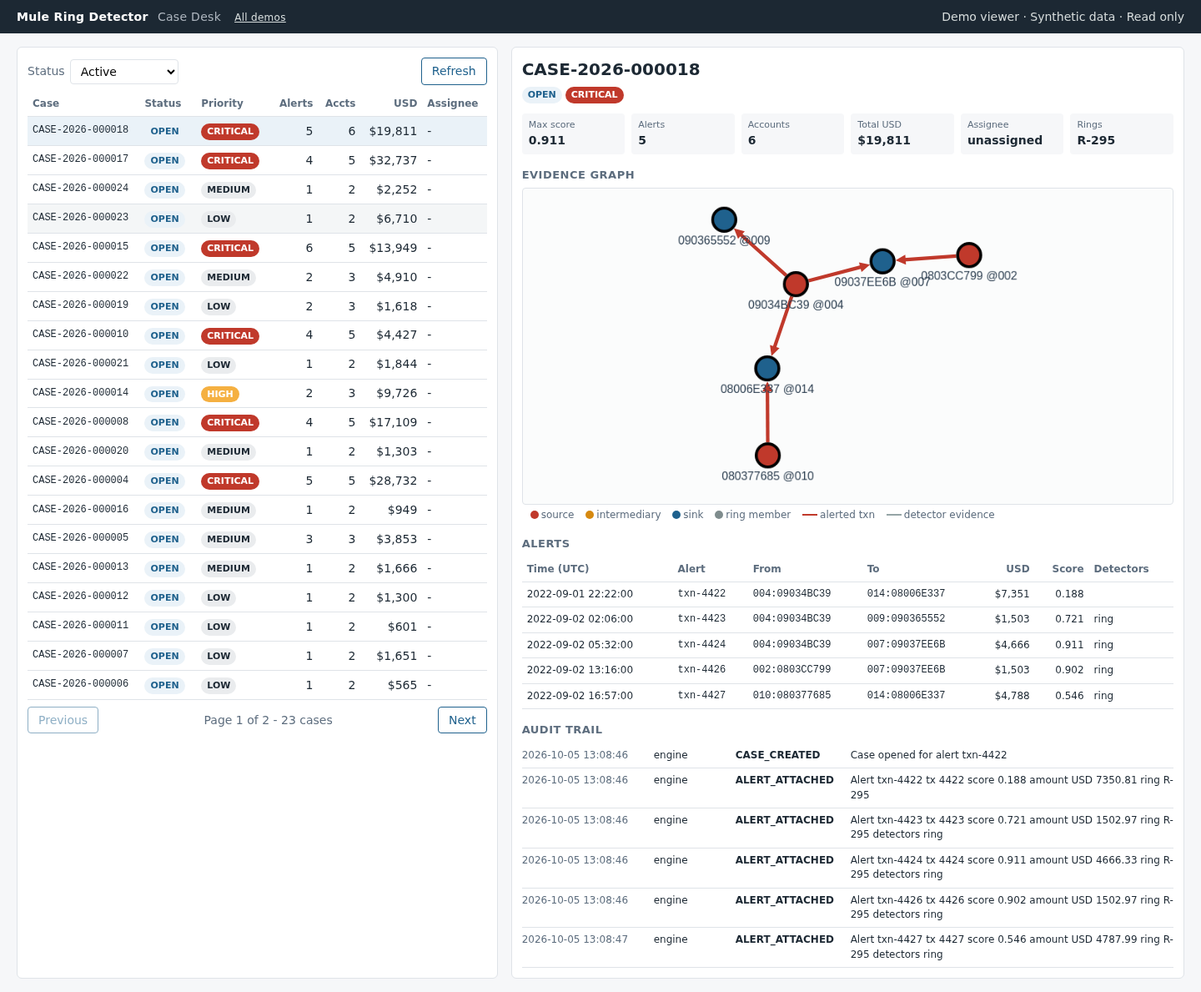
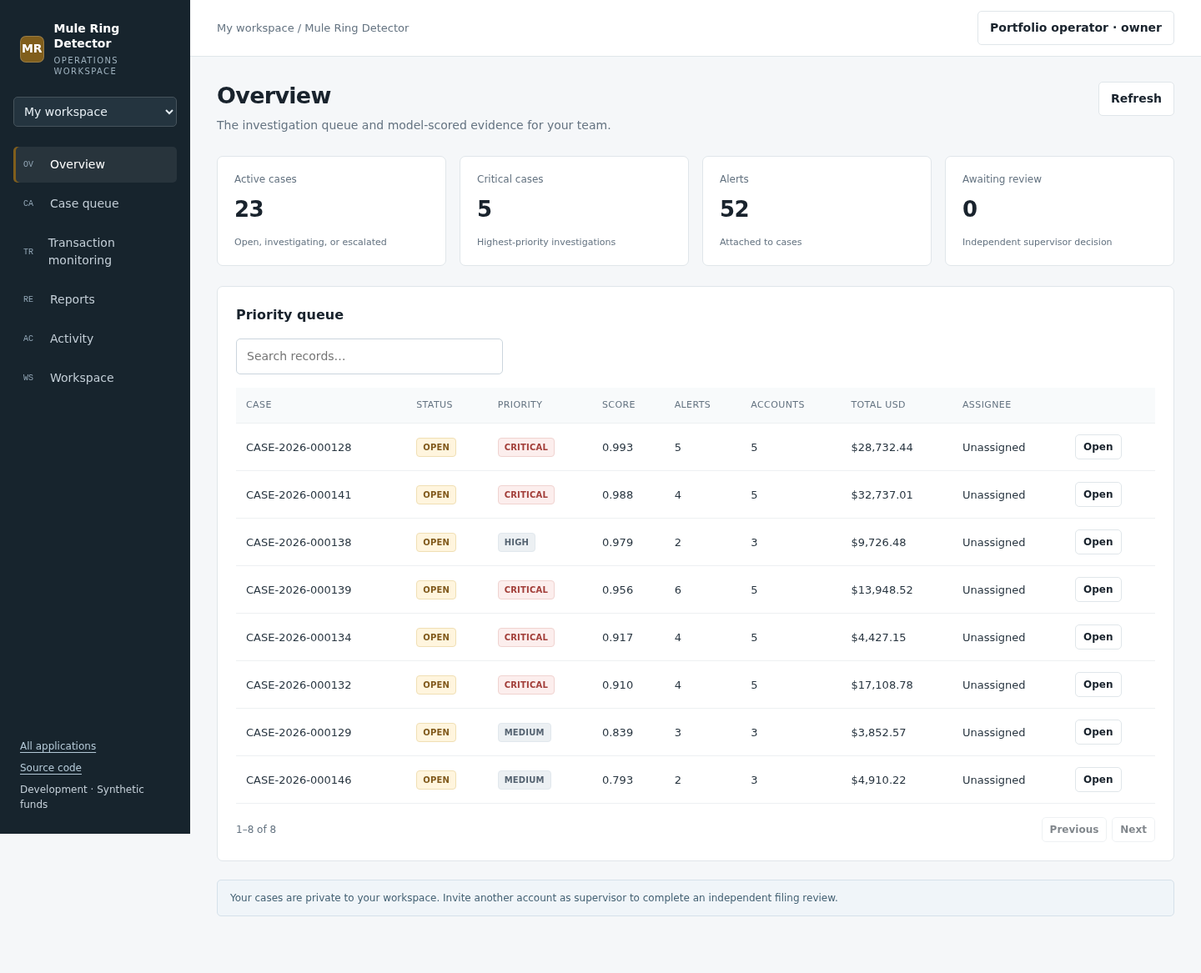
Add private investigation workspaces and signed reviewer identities

diff --git a/web/app.js b/web/app.js
@@ -1,0 +1,29 @@
+import {App,h,button,field,select,row,form,modal,table,panel,metrics,money,badge,date,short,dl,download,notice} from './shared.js';
+const app=new App({project:'mule-ring-detector',title:'Mule Ring Detector',abbr:'MR',accent:'#805e1c',tagline:'Follow the evidence. Work the case.',description:'Score transactions, investigate connected accounts, record decisions, and move STR filings through independent review.',views:[['overview','Overview'],['cases','Case queue'],['monitoring','Transaction monitoring'],['reports','Reports'],['activity','Activity']]});
+let graphInstance=null,graphObserver=null;
+const name=id=>id==='engine'?'Detection engine':app.session.members.find(m=>'u_'+m.id===id)?.name||id||'Unassigned';
+async function loadEvidence(){const d=modal('Import sample evidence',notice('Import 50 alerts scored by the Rust detection model from the checked-in synthetic dataset. They become editable cases in your workspace.'),form([],'Import evidence',async()=>{await app.action('evidence/import',{},'Evidence imported.');d.close();await app.reload();app.go('cases');}));}
+const caseRows=items=>items.map(c=>[c.reference,badge(c.status),badge(c.priority),c.maxScore.toFixed(3),c.alertCount,c.accounts.length,money(c.totalAmountUsd*100),name(c.assignee),button('Open',()=>app.go('case-'+c.id),'secondary small')]);
+async function exportReport(id,type){try{download(await app.request(`cases/${id}/${type}`,{blob:true}),`case-${id}-${type}`);app.toast('Report generated.');await app.reload();}catch(e){app.toast(e.message,'error');}}
+function graph(el,g){if(graphObserver)graphObserver.disconnect();if(graphInstance)graphInstance.destroy();if(!window.cytoscape){el.replaceChildren(notice('The graph library is still loading. Use Refresh to retry.'));return;}const colors={source:'#b54c42',intermediary:'#b58a31',sink:'#326a9e',member:'#8395a3'};graphInstance=window.cytoscape({container:el,elements:[...g.nodes.map(n=>({data:{id:n.id,label:n.label.replace(/^[a-f0-9]{16}-/,''),color:colors[n.role]||colors.member}})),...g.edges.map((e,i)=>({data:{id:'e'+i,source:e.source,target:e.target,alerted:e.alerted?1:0,label:e.detector}}))],style:[{selector:'node',style:{'background-color':'data(color)',label:'data(label)','font-size':9,width:18,height:18,'text-valign':'bottom','text-margin-y':4}},{selector:'edge',style:{width:1.5,'line-color':'#b7c4ce','target-arrow-color':'#b7c4ce','target-arrow-shape':'triangle','curve-style':'bezier'}},{selector:'edge[alerted = 1]',style:{width:2.5,'line-color':'#b54c42','target-arrow-color':'#b54c42'}}],layout:{name:g.nodes.length>40?'concentric':'cose',animate:false,padding:24}});graphObserver=new ResizeObserver(()=>{if(graphInstance){graphInstance.resize();graphInstance.fit(undefined,24);}});graphObserver.observe(el);}
+function actionForm(c,action,label,fields,success){const d=modal(label,form(fields,label,async b=>{await app.action(`cases/${c.id}/${action}`,b,success);d.close();await app.reload();}));}
+function caseView(c){const actions=[button('Back to queue',()=>app.go('cases'),'secondary'),button('Refresh',()=>app.reload(),'secondary')],active=['OPEN','INVESTIGATING','ESCALATED'].includes(c.status),pending=c.filingRequest?.status==='PENDING';const comments=textareaComment(c);
+ if(active&&c.assignee!=='u_'+app.session.id)actions.push(button('Assign to me',async()=>{try{await app.action(`cases/${c.id}/assign`,{},'Case assigned.');await app.reload();}catch(e){app.toast(e.message,'error');}}));
+ const transitions=h('div',{class:'actions'});
+ if(!pending)for(const to of c.allowedTransitions){if(to==='CLOSED')transitions.append(button('Close case',()=>actionForm(c,'transition','Close case',[h('input',{type:'hidden',name:'to',value:'CLOSED'}),select('disposition','Disposition',[['NO_FURTHER_ACTION','No further action'],['FALSE_POSITIVE','False positive']]),field('comment','Decision note',{maxLength:2000})],'Case closed.'),'danger'));else transitions.append(button(to==='ESCALATED'?'Escalate':'Start investigation',()=>actionForm(c,'transition',to==='ESCALATED'?'Escalate case':'Start investigation',[h('input',{type:'hidden',name:'to',value:to}),field('comment','Decision note',{maxLength:2000})],'Case updated.'),'secondary'));}
+ const review=h('div',{});
+ if(c.status==='ESCALATED'&&!pending)review.append(notice('Generate the STR XML, then request an independent supervisor review.'),button('Request filing review',()=>actionForm(c,'filing-request','Request filing review',[field('comment','Review note',{maxLength:2000})],'Filing requested.')));
+ if(pending){review.append(notice('Awaiting supervisor review. Requested by '+name(c.filingRequest.requestedBy)+'.'));if(app.session.role==='SUPERVISOR'&&c.filingRequest.requestedBy!=='u_'+app.session.id)review.append(h('div',{class:'actions'},button('Approve filing',()=>actionForm(c,'filing-approval','Approve STR filing',[field('comment','Approval note',{maxLength:2000})],'Filing approved.')),button('Reject filing',()=>actionForm(c,'filing-rejection','Reject STR filing',[field('reason','Rejection reason',{maxLength:2000})],'Filing rejected.'),'danger')));}
+ const graphHost=h('div',{class:'graph','aria-label':'Account evidence graph'}),auditHost=h('div',{},h('p',{class:'muted'},'Loading audit trail…'));
+ setTimeout(async()=>{try{const [g,a]=await Promise.all([app.request(`cases/${c.id}/graph`),app.request(`cases/${c.id}/audit`)]);if(graphHost.isConnected)graph(graphHost,g);if(auditHost.isConnected)auditHost.replaceChildren(h('ol',{class:'timeline'},a.map(e=>h('li',{},h('strong',{},e.action.replaceAll('_',' ')),h('p',{},e.details||''),h('small',{},date(e.timestamp)+' · '+name(e.actor))))));}catch(e){if(graphHost.isConnected)graphHost.replaceChildren(notice(e.message,'error'));}},0);
+ return [app.head(c.reference,'Case evidence, decisions, and a complete audit history.',actions),metrics([['Risk score',c.maxScore.toFixed(3),c.priority+' priority'],['Alerts',c.alertCount,c.status],['Accounts',c.accounts.length,'Connected accounts'],['Total value',money(c.totalAmountUsd*100),'USD across alerts']]),h('div',{class:'columns'},panel('Evidence graph',graphHost,h('p',{class:'muted'},'Sources → intermediaries → sinks. Red edges identify alerted transactions.')),panel('Case workflow',dl([['Status',badge(c.status)],['Assignee',name(c.assignee)],['Disposition',c.disposition||'—'],['Ring IDs',c.ringIds.map(short).join(', ')||'—']]),h('br'),transitions,h('br'),review,h('br'),h('div',{class:'actions'},button('STR XML',()=>exportReport(c.id,'str.xml'),'secondary'),button('Summary HTML',()=>exportReport(c.id,'summary.html'),'secondary'),button('Summary PDF',()=>exportReport(c.id,'summary.pdf'),'secondary')))),panel('Alerts',table(['Timestamp','Alert','From account','To account','Amount USD','Score','Detectors'],c.alerts.map(a=>[date(a.timestamp),short(a.alertId),short(a.fromAccount),short(a.toAccount),money(a.amountUsd*100),a.score.toFixed(3),a.detectors.join(', ')]))),h('div',{class:'columns equal'},panel('Add a case note',comments),panel('Audit trail',auditHost))];}
+function textareaComment(c){return form([h('label',{class:'field'},'Comment',h('textarea',{name:'text',required:true,maxLength:2000,placeholder:'Record your observations and next steps.'}))],'Add note',async b=>{await app.action(`cases/${c.id}/comments`,b,'Note added.');await app.reload();});}
+app.renderView=(page,d)=>{
+ if(graphObserver)graphObserver.disconnect();if(graphInstance){graphInstance.destroy();graphInstance=null;}
+ if(page.startsWith('case-')){const c=d.cases.find(c=>c.id===Number(page.slice(5)));return c?caseView(c):[app.head('Case not found','This case does not belong to your current workspace.'),button('Back to queue',()=>app.go('cases'))];}
+ if(page==='cases'){const holder=h('div',{}),filter=select('status','Status',[['ALL','All cases'],['ACTIVE','Active cases'],['OPEN','Open'],['INVESTIGATING','Investigating'],['ESCALATED','Escalated'],['CLOSED','Closed'],['MERGED','Merged']],'ACTIVE');const draw=()=>{const value=filter.querySelector('select').value;const cases=d.cases.filter(c=>value==='ALL'||value==='ACTIVE'&&['OPEN','INVESTIGATING','ESCALATED'].includes(c.status)||c.status===value);holder.replaceChildren(table(['Case','Status','Priority','Score','Alerts','Accounts','Total USD','Assignee',''],caseRows(cases),'No cases match this queue. Import evidence or score new transactions.'));};filter.querySelector('select').addEventListener('change',draw);draw();return [app.head('Case queue','Prioritize risk, assign investigations, and record decisions.',[d.cases.length===0?button('Import sample evidence',loadEvidence):button('Refresh',()=>app.reload(),'secondary')]),panel('',filter,h('br'),holder)];}
+ if(page==='monitoring'){const result=h('div',{}),history=h('div',{});const drawHistory=()=>history.replaceChildren(table(['When','From','To','Amount USD','Score','Threshold','Result'],app.data.scores.map(s=>[date(s.timestamp),s.fromAccount,s.toAccount,money(s.amount*100),s.score.toFixed(4),s.threshold.toFixed(4),badge(s.alert?'FLAGGED':'CLEAR')])));drawHistory();return [app.head('Transaction monitoring','Score a transfer through the Rust model. Flagged transactions create cases in your workspace.'),h('div',{class:'columns equal'},panel('Score a transaction',form([row(field('fromAccount','From account',{maxLength:24,placeholder:'ACCT-1001'}),field('toAccount','To account',{maxLength:24,placeholder:'ACCT-1002'})),row(field('amount','Amount USD',{type:'number',min:'.01',step:'.01'}),select('paymentFormat','Payment method',['ACH','Wire','Cash','Cheque','Credit Card'])),field('timestamp','Timestamp',{type:'datetime-local',value:new Date(Date.now()-new Date().getTimezoneOffset()*60000).toISOString().slice(0,16)})],'Score transaction',async b=>{b.timestamp=new Date(b.timestamp).toISOString();const r=await app.action('transactions/score',b);result.replaceChildren(panel('Scoring result',dl([['Score',r.score.toFixed(4)],['Threshold',r.threshold.toFixed(4)],['Outcome',badge(r.alert?'FLAGGED':'CLEAR')],['Latency',r.latencyUs.toFixed(1)+' µs']]),h('p',{class:'muted'},'A score is an investigation signal, not a confirmed finding.')));app.data=await app.request('state');drawHistory();})),result),panel('Scoring history',history)];}
+ if(page==='reports'){const reports=d.cases.flatMap(c=>c.reports.map(r=>({c,r})));return [app.head('Reports','Generated reports and independent STR filing review.'),panel('',table(['Case','Report type','Generated','Status',''],reports.map(({c,r})=>[c.reference,r.type,date(r.createdAt||r.generatedAt),badge(c.filingRequest?.status||c.status),button('Open case',()=>app.go('case-'+c.id),'secondary small')]),'Open a case to generate its STR XML or investigation summary.'))];}
+ if(page==='activity')return [app.head('Activity','Your workspace investigation operations.'),app.activity()];
+ const active=d.cases.filter(c=>['OPEN','INVESTIGATING','ESCALATED'].includes(c.status));return [app.head('Overview','The investigation queue and model-scored evidence for your team.',[d.cases.length?button('Refresh',()=>app.reload(),'secondary'):button('Import sample evidence',loadEvidence)]),metrics([['Active cases',active.length,'Open, investigating, or escalated'],['Critical cases',active.filter(c=>c.priority==='CRITICAL').length,'Highest-priority investigations'],['Alerts',d.cases.reduce((n,c)=>n+c.alertCount,0),'Attached to cases'],['Awaiting review',d.cases.filter(c=>c.filingRequest?.status==='PENDING').length,'Independent supervisor decision']]),panel('Priority queue',table(['Case','Status','Priority','Score','Alerts','Accounts','Total USD','Assignee',''],caseRows([...active].sort((a,b)=>b.maxScore-a.maxScore).slice(0,8)),'Import the model-scored sample dataset or score a new transaction to begin.')),notice('Your cases are private to your workspace. Invite another account as supervisor to complete an independent filing review.')];
+};app.start();

diff --git a/web/index.html b/web/index.html
@@ -1,0 +1,2 @@
+<!doctype html>
+<html lang="en"><head><meta charset="utf-8"><meta name="viewport" content="width=device-width,initial-scale=1"><title>Mule Ring Detector</title><link rel="stylesheet" href="shared.css"><script type="module" src="app.js"></script><script src="https://unpkg.com/cytoscape@3.30.2/dist/cytoscape.min.js" defer></script></head><body><main class="loading" role="status">Loading workspace…</main></body></html>

diff --git a/case-service/src/test/java/io/github/eunini/mrd/cases/GatewayIdentityIT.java b/case-service/src/test/java/io/github/eunini/mrd/cases/GatewayIdentityIT.java
@@ -1,0 +1,86 @@
+package io.github.eunini.mrd.cases;
+
+import static org.springframework.test.web.servlet.request.MockMvcRequestBuilders.get;
+import static org.springframework.test.web.servlet.result.MockMvcResultMatchers.jsonPath;
+import static org.springframework.test.web.servlet.result.MockMvcResultMatchers.status;
+
+import java.nio.charset.StandardCharsets;
+import java.time.Instant;
+import java.util.Base64;
+import java.util.List;
+import java.util.Map;
+import java.util.UUID;
+import javax.crypto.Mac;
+import javax.crypto.spec.SecretKeySpec;
+import org.junit.jupiter.api.Test;
+import org.springframework.test.context.DynamicPropertyRegistry;
+import org.springframework.test.context.DynamicPropertySource;
+import org.springframework.test.web.servlet.request.RequestPostProcessor;
+
+/** Verifies real workspace identities and independent filing decisions at the Java boundary. */
+class GatewayIdentityIT extends IntegrationTestBase {
+    private static final String SECRET = UUID.randomUUID().toString() + UUID.randomUUID();
+    private static final String OWNER = "u_" + UUID.randomUUID();
+    private static final String REVIEWER = "u_" + UUID.randomUUID();
+
+    @DynamicPropertySource
+    static void signingProperty(DynamicPropertyRegistry registry) {
+        registry.add("mrd.gateway-secret", () -> SECRET);
+    }
+
+    private RequestPostProcessor identity(String actor, String role, long time, boolean tamper) throws Exception {
+        String payload = Base64.getUrlEncoder().withoutPadding().encodeToString(json.writeValueAsBytes(Map.of(
+                "actor", actor, "role", role, "time", time,
+                "members", List.of(Map.of("actor", actor, "role", role, "name", "Workspace member")))));
+        Mac mac = Mac.getInstance("HmacSHA256");
+        mac.init(new SecretKeySpec(SECRET.getBytes(StandardCharsets.UTF_8), "HmacSHA256"));
+        String signature = java.util.HexFormat.of().formatHex(mac.doFinal(payload.getBytes(StandardCharsets.UTF_8)));
+        return request -> {
+            request.addHeader("X-Workspace-Identity", payload);
+            request.addHeader("X-Workspace-Signature", tamper ? "0".repeat(64) : signature);
+            return request;
+        };
+    }
+
+    private RequestPostProcessor identity(String actor, String role) throws Exception {
+        return identity(actor, role, Instant.now().getEpochSecond(), false);
+    }
+
+    @Test
+    void signedIdentityPreservesActorAndPrivileges() throws Exception {
+        mvc.perform(get("/api/me").with(identity(OWNER, "ANALYST")))
+                .andExpect(status().isOk()).andExpect(jsonPath("$.username").value(OWNER));
+        mvc.perform(get("/api/me").with(identity(REVIEWER, "SUPERVISOR")))
+                .andExpect(status().isOk()).andExpect(jsonPath("$.roles").value(org.hamcrest.Matchers.hasItem("SUPERVISOR")));
+        postJson("/api/alerts", identity(OWNER, "ANALYST"), List.of())
+                .andExpect(status().isForbidden());
+    }
+
+    @Test
+    void forgedStaleAndUnexpectedRoleEnvelopesAreRejected() throws Exception {
+        mvc.perform(get("/api/cases").with(identity(OWNER, "SUPERVISOR", Instant.now().getEpochSecond(), true)))
+                .andExpect(status().isUnauthorized());
+        mvc.perform(get("/api/cases").with(identity(OWNER, "ANALYST", Instant.now().getEpochSecond() - 120, false)))
+                .andExpect(status().isUnauthorized());
+        mvc.perform(get("/api/cases").with(identity(OWNER, "INGEST")))
+                .andExpect(status().isUnauthorized());
+    }
+
+    @Test
+    void workspaceFilingNeedsAnIndependentSupervisor() throws Exception {
+        long id = caseIdOf(ingest(fixture()), 0);
+        transition(id, identity(OWNER, "SUPERVISOR"), "INVESTIGATING", null).andExpect(status().isOk());
+        transition(id, identity(OWNER, "SUPERVISOR"), "ESCALATED", null).andExpect(status().isOk());
+        mvc.perform(get("/api/cases/" + id + "/str.xml").with(identity(OWNER, "SUPERVISOR")))
+                .andExpect(status().isOk());
+        postJson("/api/cases/" + id + "/filing-request", identity(OWNER, "SUPERVISOR"), Map.of())
+                .andExpect(status().isOk()).andExpect(jsonPath("$.filingRequest.requestedBy").value(OWNER));
+        postJson("/api/cases/" + id + "/filing-approval", identity(OWNER, "SUPERVISOR"), Map.of())
+                .andExpect(status().isForbidden());
+        postJson("/api/cases/" + id + "/filing-approval", identity(REVIEWER, "ANALYST"), Map.of())
+                .andExpect(status().isForbidden());
+        postJson("/api/cases/" + id + "/filing-approval", identity(REVIEWER, "SUPERVISOR"), Map.of())
+                .andExpect(status().isOk()).andExpect(jsonPath("$.status").value("CLOSED"))
+                .andExpect(jsonPath("$.filingRequest.decidedBy").value(REVIEWER));
+    }
+}

diff --git a/case-service/src/main/java/io/github/eunini/mrd/cases/config/GatewayIdentityFilter.java b/case-service/src/main/java/io/github/eunini/mrd/cases/config/GatewayIdentityFilter.java
@@ -1,0 +1,75 @@
+package io.github.eunini.mrd.cases.config;
+
+import com.fasterxml.jackson.databind.JsonNode;
+import com.fasterxml.jackson.databind.ObjectMapper;
+import jakarta.servlet.FilterChain;
+import jakarta.servlet.ServletException;
+import jakarta.servlet.http.HttpServletRequest;
+import jakarta.servlet.http.HttpServletResponse;
+import java.io.IOException;
+import java.nio.charset.StandardCharsets;
+import java.security.MessageDigest;
+import java.time.Instant;
+import java.util.Base64;
+import java.util.List;
+import javax.crypto.Mac;
+import javax.crypto.spec.SecretKeySpec;
+import org.springframework.security.authentication.UsernamePasswordAuthenticationToken;
+import org.springframework.security.core.authority.SimpleGrantedAuthority;
+import org.springframework.security.core.context.SecurityContextHolder;
+import org.springframework.web.filter.OncePerRequestFilter;
+
+/** Authenticates workspace identities signed by the private application gateway. */
+public final class GatewayIdentityFilter extends OncePerRequestFilter {
+    private final String secret;
+    private final ObjectMapper mapper;
+    private final UserDirectory users;
+
+    public GatewayIdentityFilter(String secret, ObjectMapper mapper, UserDirectory users) {
+        this.secret = secret;
+        this.mapper = mapper;
+        this.users = users;
+    }
+
+    @Override
+    protected void doFilterInternal(HttpServletRequest request, HttpServletResponse response, FilterChain chain)
+            throws ServletException, IOException {
+        String encoded = request.getHeader("X-Workspace-Identity");
+        if (encoded == null || secret.isBlank()) { chain.doFilter(request, response); return; }
+        try {
+            String signature = request.getHeader("X-Workspace-Signature");
+            Mac mac = Mac.getInstance("HmacSHA256");
+            mac.init(new SecretKeySpec(secret.getBytes(StandardCharsets.UTF_8), "HmacSHA256"));
+            byte[] expected = mac.doFinal(encoded.getBytes(StandardCharsets.UTF_8));
+            if (signature == null || !MessageDigest.isEqual(expected, java.util.HexFormat.of().parseHex(signature))) {
+                response.sendError(401); return;
+            }
+            JsonNode identity = mapper.readTree(Base64.getUrlDecoder().decode(encoded));
+            if (Math.abs(Instant.now().getEpochSecond() - identity.path("time").asLong()) > 60) {
+                response.sendError(401); return;
+            }
+            String actor = identity.path("actor").asText();
+            String role = identity.path("role").asText();
+            if (!actor.matches("u_[a-f0-9-]{36}") || !(role.equals("ANALYST") || role.equals("SUPERVISOR"))) {
+                response.sendError(401); return;
+            }
+            for (JsonNode member : identity.path("members")) {
+                String name = member.path("actor").asText();
+                String memberRole = member.path("role").asText();
+                if (name.matches("u_[a-f0-9-]{36}") && (memberRole.equals("ANALYST") || memberRole.equals("SUPERVISOR"))) {
+                    users.register(new UserDirectory.UserProfile(name, member.path("name").asText(),
+                            member.path("email").asText(null), List.of(memberRole)));
+                }
+            }
+            List<SimpleGrantedAuthority> authorities = role.equals("SUPERVISOR")
+                    ? List.of(new SimpleGrantedAuthority("ROLE_SUPERVISOR"), new SimpleGrantedAuthority("ROLE_ANALYST"))
+                    : List.of(new SimpleGrantedAuthority("ROLE_ANALYST"));
+            SecurityContextHolder.getContext().setAuthentication(
+                    new UsernamePasswordAuthenticationToken(actor, null, authorities));
+        } catch (Exception invalid) {
+            response.sendError(401);
+            return;
+        }
+        chain.doFilter(request, response);
+    }
+}

diff --git a/case-service/src/main/java/io/github/eunini/mrd/cases/config/SecurityConfig.java b/case-service/src/main/java/io/github/eunini/mrd/cases/config/SecurityConfig.java
@@ -36,7 +36,8 @@ import org.springframework.security.web.authentication.www.BasicAuthenticationEn
 public class SecurityConfig {
 
     @Bean
-    SecurityFilterChain apiSecurity(HttpSecurity http) throws Exception {
+    SecurityFilterChain apiSecurity(HttpSecurity http, com.fasterxml.jackson.databind.ObjectMapper mapper,
+            UserDirectory users, @org.springframework.beans.factory.annotation.Value("${mrd.gateway-secret:${MRD_GATEWAY_SECRET:}}") String gatewaySecret) throws Exception {
         AuthenticationEntryPoint entryPoint = entryPoint();
         http
                 .csrf(AbstractHttpConfigurer::disable)
@@ -57,6 +58,8 @@ public class SecurityConfig {
                 .headers(headers -> headers.contentSecurityPolicy(csp -> csp.policyDirectives(
                         "default-src 'self'; script-src 'self' https://unpkg.com; style-src 'self' 'unsafe-inline'; "
                                 + "img-src 'self' data: blob:; frame-src 'self' blob:; object-src 'none'")));
+        http.addFilterBefore(new GatewayIdentityFilter(gatewaySecret, mapper, users),
+                org.springframework.security.web.authentication.www.BasicAuthenticationFilter.class);
         return http.build();
     }
 

diff --git a/case-service/src/main/java/io/github/eunini/mrd/cases/config/UserDirectory.java b/case-service/src/main/java/io/github/eunini/mrd/cases/config/UserDirectory.java
@@ -21,7 +21,7 @@ public class UserDirectory {
         }
     }
 
-    private final Map<String, UserProfile> profiles = new LinkedHashMap<>();
+    private final Map<String, UserProfile> profiles = new java.util.concurrent.ConcurrentHashMap<>();
 
     public UserDirectory(SecurityProperties properties) {
         for (SecurityProperties.User user : properties.users()) {
@@ -30,6 +30,8 @@ public class UserDirectory {
             profiles.put(user.username(), new UserProfile(user.username(), fullName, user.email(), roles));
         }
     }
+
+    public void register(UserProfile profile) { profiles.put(profile.username(), profile); }
 
     public Optional<UserProfile> find(String username) {
         return Optional.ofNullable(profiles.get(username));

diff --git a/docs/application.md b/docs/application.md
@@ -1,0 +1,23 @@
+# Application workspace
+
+[Open mule-ring-detector](https://leads.realalma.com/fintech/mule-ring-detector/)
+
+Score transactions with the Rust detection model; investigate evidence graphs; assign cases; record notes and decisions; export XML, HTML, and PDF reports; and obtain independent supervisor review.
+
+Import the scored synthetic evidence once to start a case queue, or score transactions yourself. Filing approval requires a separate invited supervisor account, with both identities preserved in the Java audit trail.
+
+## Accounts and team access
+
+Create an account with a name, email, and password. Alternatively, open a workspace immediately and save that account from Workspace later. Upgrading a guest keeps its records. Sign out and sign in to resume saved work. A single account works across the four applications.
+
+Workspace owners can issue one-use, seven-day invitations for analysts or supervisors. Invitees create their own accounts, accept the code from Workspace, and switch between workspaces they belong to. STR filing requests require review by a different supervisor; requesters cannot approve their own filings.
+
+Sessions use secure, HTTP-only cookies. Passwords are salted and hashed with scrypt. Writes require a session-bound CSRF token. Every record mutation checks workspace ownership, and operation keys are scoped to the workspace. Persistent application data uses SQLite outside the source tree; clearing, cases, and the card issuer also use dedicated PostgreSQL databases. Ledger data is persisted by the three Rust replicas.
+
+## Hosting and verification
+
+The UI source is in `web/`. The shared authenticated application gateway, SQLite store, deployment scripts, and public browser test are in [quorum-ledger/ops/portfolio-demo](https://github.com/Eunini/quorum-ledger/tree/main/ops/portfolio-demo). Java and Rust services bind only to loopback. Nginx serves the applications over HTTPS. Systemd supervises the services and starts them at boot. Runtime credentials, private synthetic card material, and databases remain outside Git.
+
+[Recorded public workflow checks](public-deployment-verification.json) and the screenshots in this directory describe the deployed application. Earlier command-line recordings and benchmark measurements remain separately documented.
+
+This is a development environment with synthetic financial data, public test cryptographic keys, and fictional participants. It is not connected to a bank or card scheme. Reports are not submitted to regulators.

diff --git a/README.md b/README.md
@@ -1,6 +1,6 @@
 # mule-ring-detector
 
-**[Open the live demo](https://leads.realalma.com/fintech/mule-ring-detector/)** · Browse model-scored synthetic cases, evidence graphs, and audit trails. All data is synthetic.
+**[Open the application](https://leads.realalma.com/fintech/mule-ring-detector/)** · Score transactions with the Rust detection model; investigate evidence graphs; assign cases; record notes and decisions; export XML, HTML, and PDF reports; and obtain independent supervisor review.
 
 A streaming money-mule detector in Rust with a Java investigation desk: temporal graph
 features, explainable model scores, account-ring evidence, case grouping, and a two-person
@@ -12,7 +12,19 @@ reports are illustrative and are not submitted to any regulator.
 
 ![Investigation desk with a synthetic account-ring evidence graph](docs/dashboard.png)
 
-[Recorded investigation-desk demo](docs/demo.webm)
+[Local investigation exercise recording](docs/demo.webm)
+
+## Use the application
+
+Create an account, sign in, or open a private workspace and save your account later. One account works across all four applications. Workspaces have persistent records, searchable tables, activity logs, and team invitations. Your saved data is retained when you reload or sign in from another device.
+
+Import the scored synthetic evidence once to start a case queue, or score transactions yourself. Filing approval requires a separate invited supervisor account, with both identities preserved in the Java audit trail.
+
+All funds, cards, institutions, and sample transactions are synthetic. The applications do not connect to real banking or card networks.
+
+[Application workflows and hosting details](docs/application.md)
+
+![Application workspace](docs/application.png)
 
 ## Architecture
 
